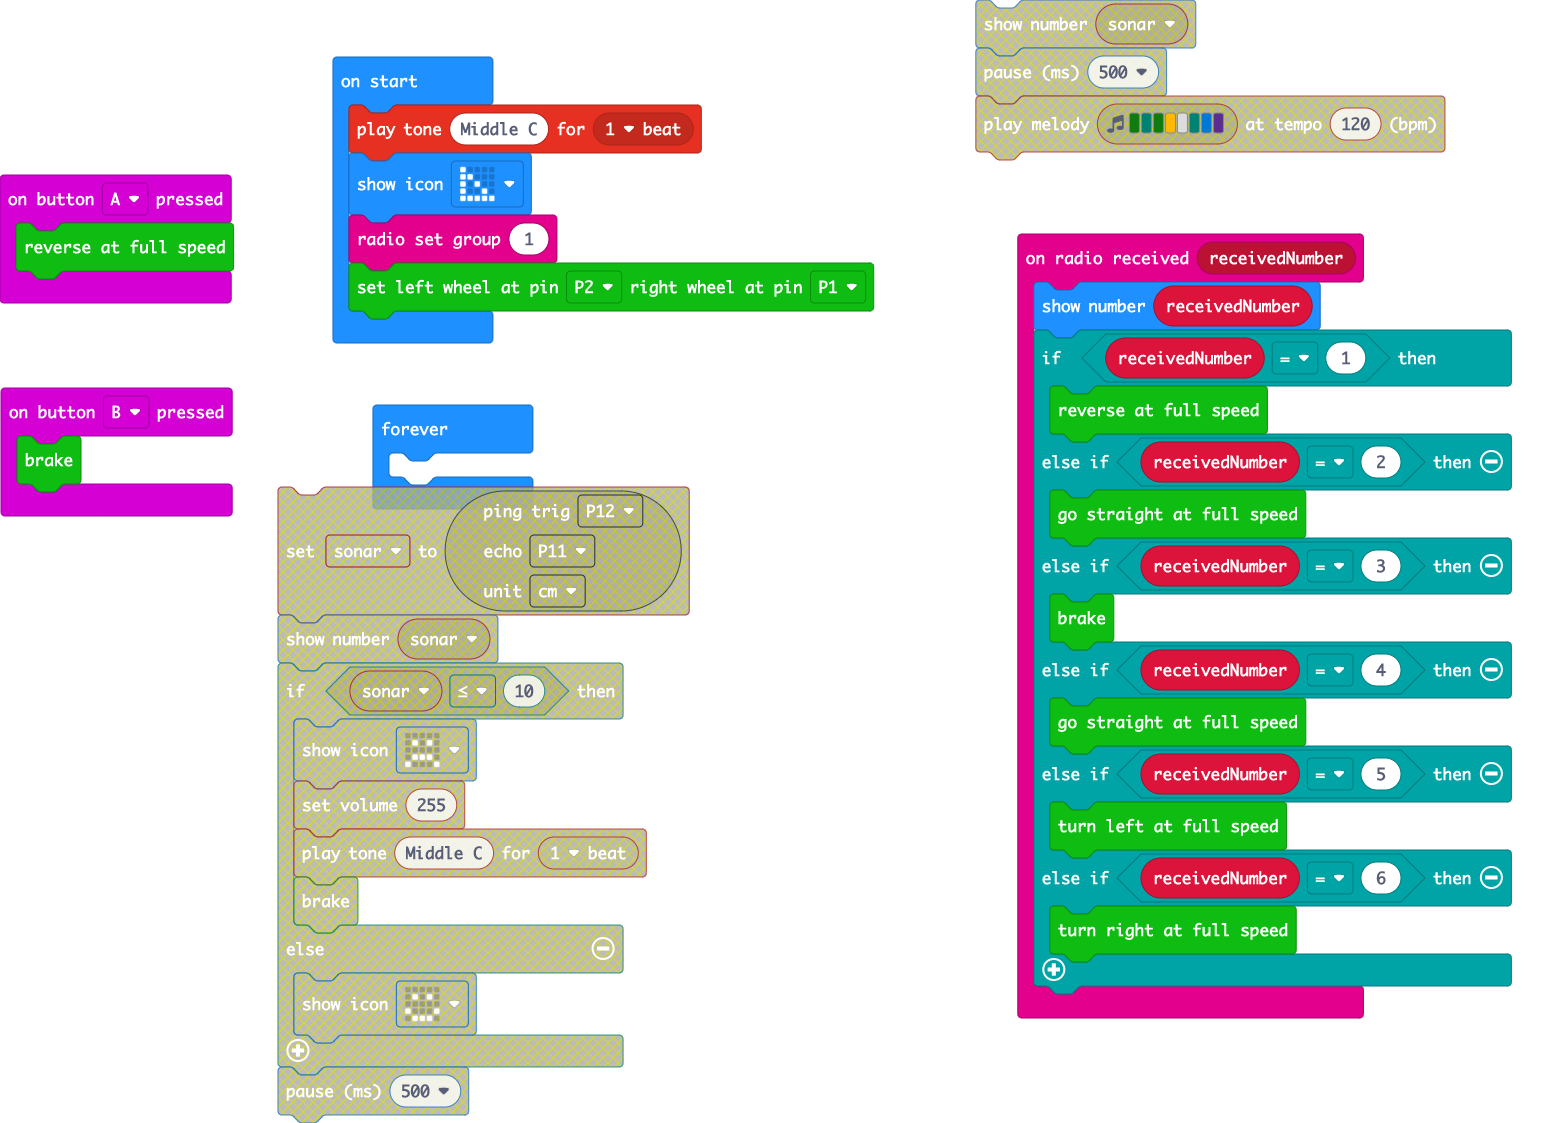
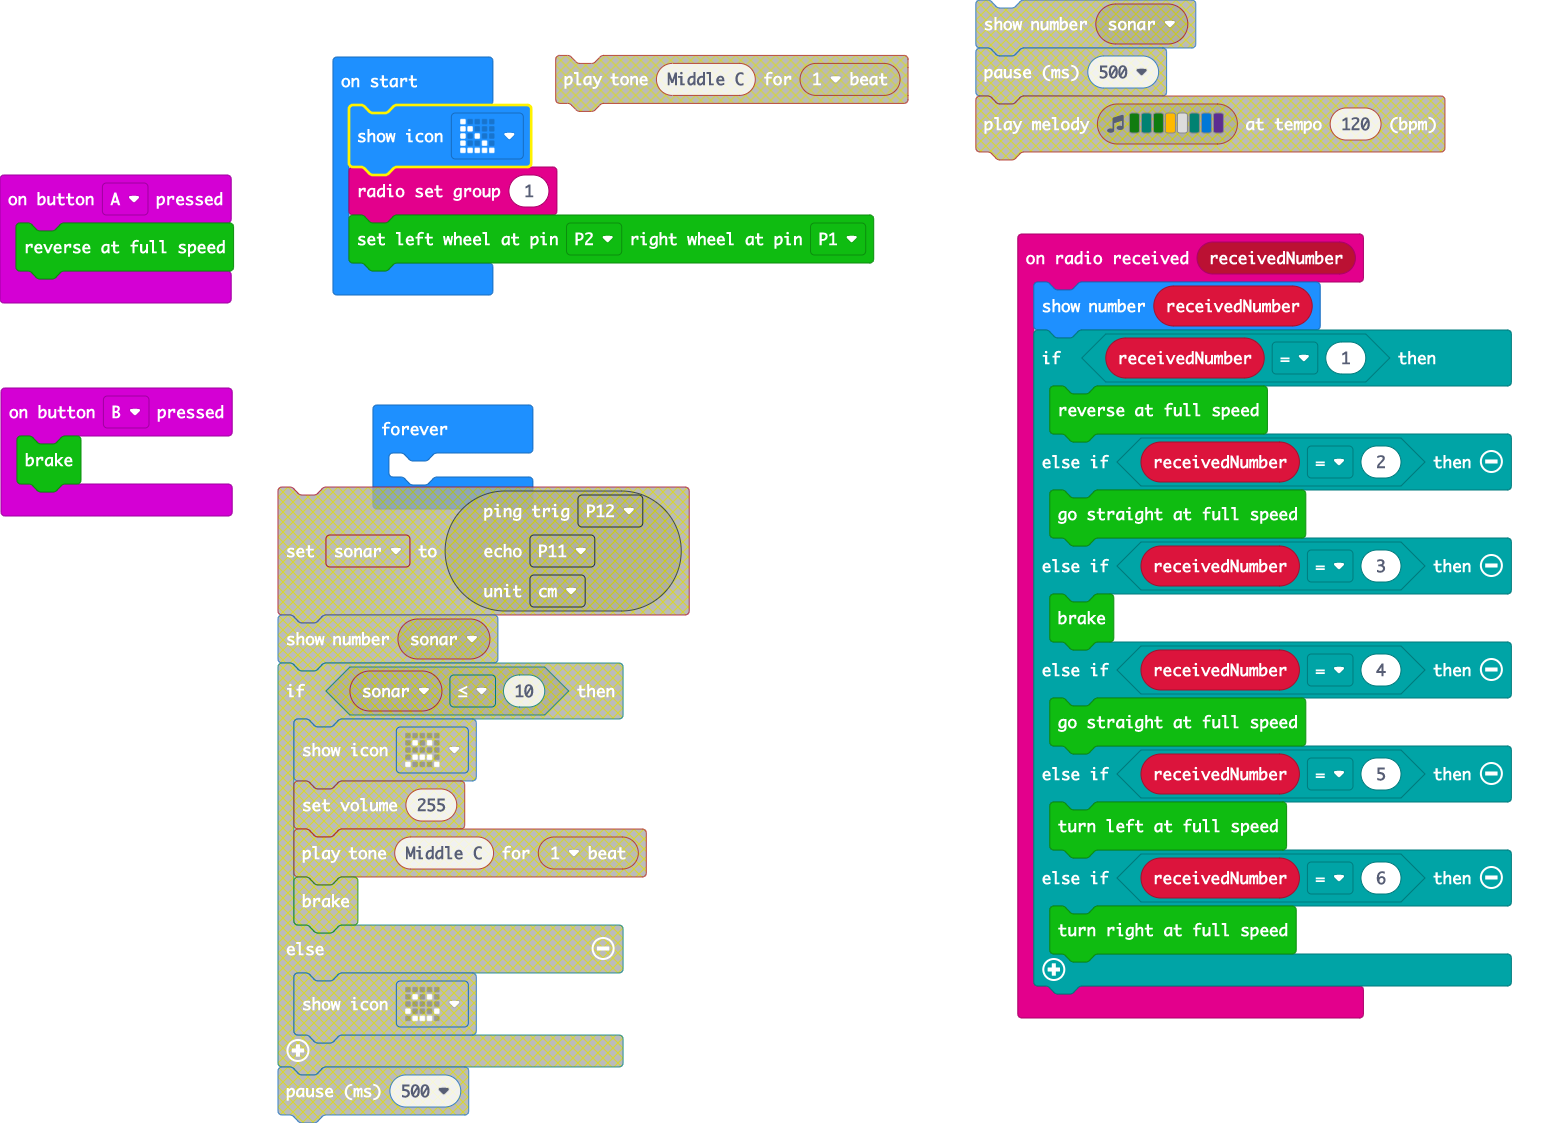
Update main.blocks, main.ts

Changed region(s): [[0.215, 0.0312, 0.5835, 0.3117]]

diff --git a/main.ts b/main.ts
@@ -20,7 +20,6 @@ input.onButtonPressed(Button.A, function () {
 input.onButtonPressed(Button.B, function () {
     RingbitCar.brake()
 })
-music.playTone(262, music.beat(BeatFraction.Whole))
 basic.showIcon(IconNames.LeftTriangle)
 radio.setGroup(1)
 RingbitCar.init_wheel(AnalogPin.P2, AnalogPin.P1)
